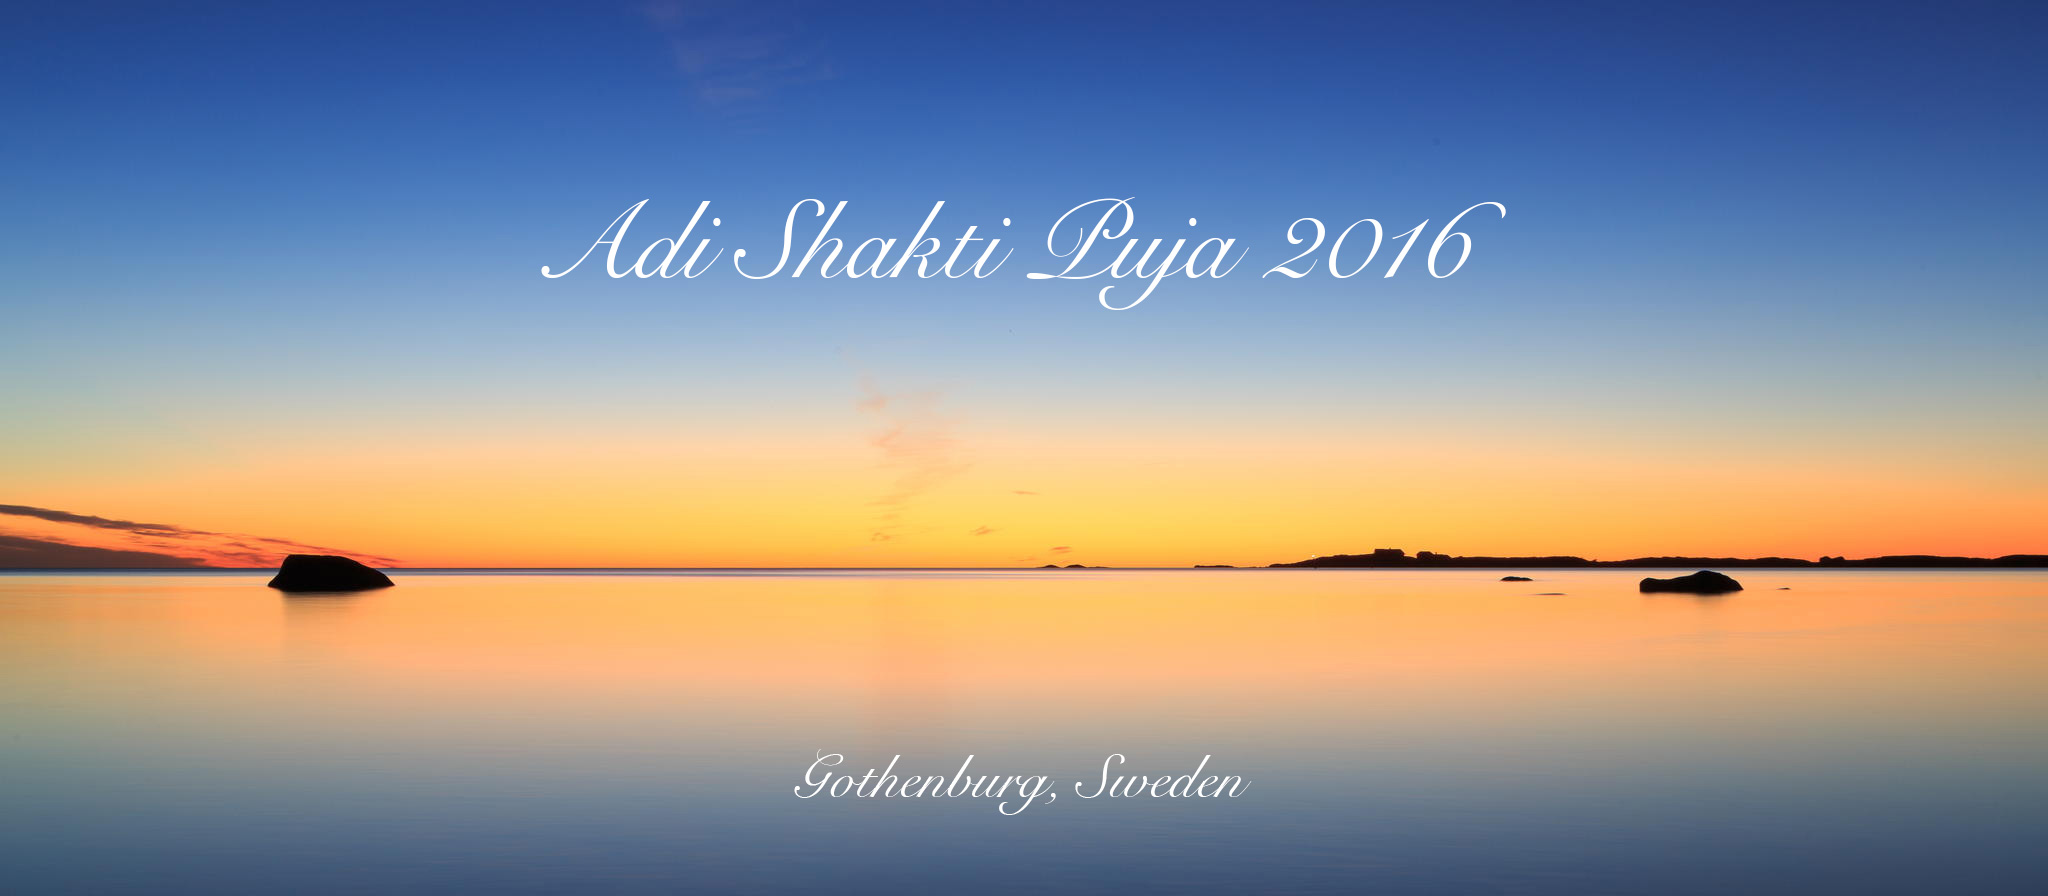
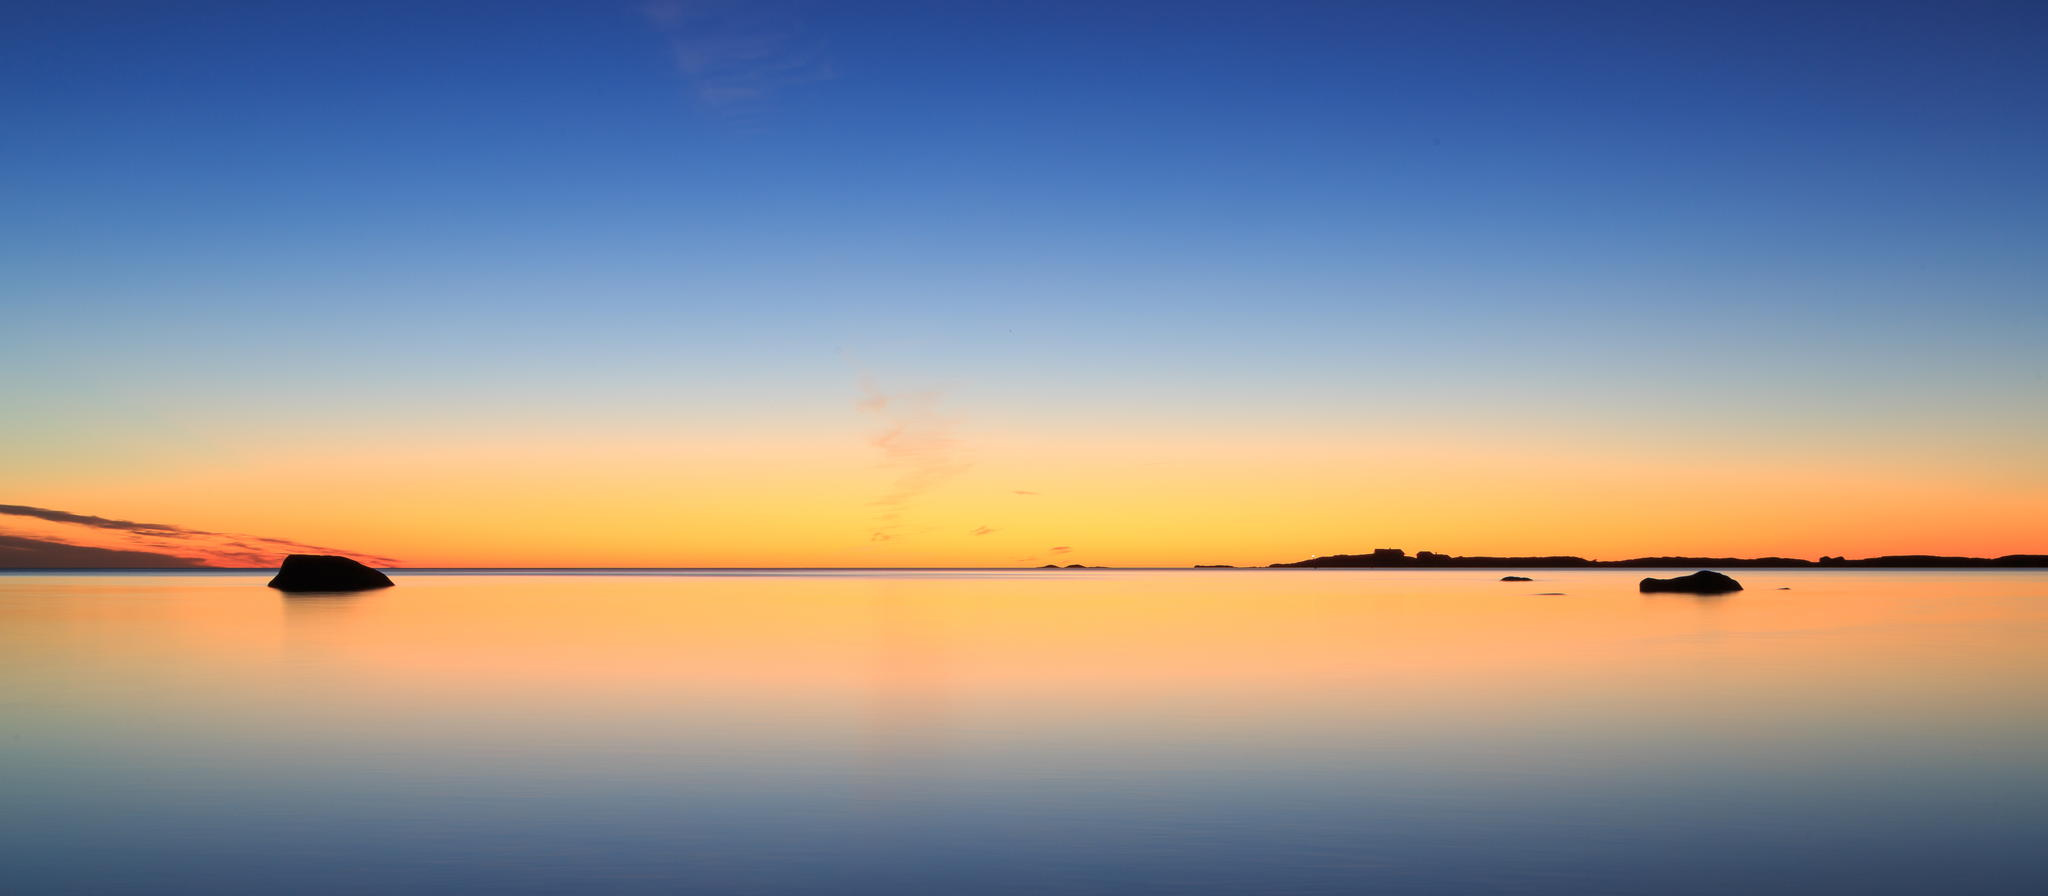
Jumbotron

Changed region(s): [[0.25, 0.2188, 0.7188, 0.3438], [0.375, 0.8438, 0.5938, 0.9062]]

diff --git a/app/assets/stylesheets/application.scss b/app/assets/stylesheets/application.scss
@@ -38,3 +38,37 @@
 .remove-participant {
   margin-top: 30px;
 }
+
+a {
+  font-weight: bold;
+}
+
+.bg {
+  background: url(image-path("sunset-gradient.jpg")) no-repeat center center;
+  background-size: cover;
+  position: absolute;
+  width: 100%;
+  height: 550px; /*same height as jumbotron */
+  top:0;
+  left:0;
+  z-index: -1;
+}
+
+.jumbotron {
+  text-align: center;
+  height: 550px;
+  color: white;
+  text-shadow: #444 0 1px 1px;
+  background:transparent;
+}
+
+h1 {
+  font-family: helvetica;
+  margin-top: 90px;
+  font-size: 70px;
+
+  &.subtitle {
+    margin-top: 60px;
+    font-size: 48px;
+  }
+}
